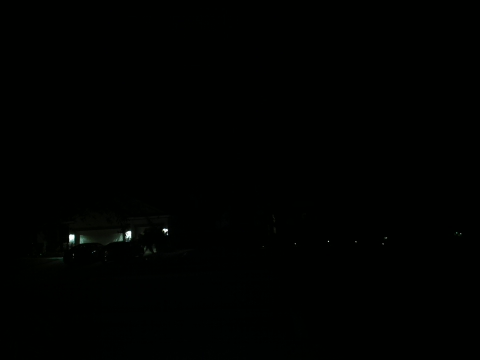
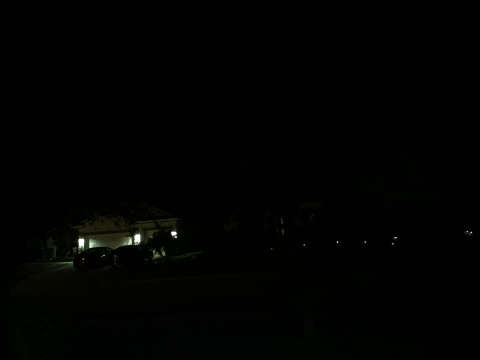
Commiting photos and text.

Changed region(s): [[0.0938, 0.6111, 0.375, 0.7639], [0.9688, 0.6417, 1.0, 0.6722]]

diff --git a/README.md b/README.md
@@ -1,2 +1,2 @@
 
-Detection Num: 0 | 2022-02-14, 20:12:13<br />Detection Num: 0 | 2022-02-14, 20:20:21<br />Detection Num: 0 | 2022-02-14, 20:33:47<br />Detection Num: 0 | 2022-02-14, 20:38:56<br />Detection Num: 0 | 2022-02-14, 20:41:20<br />Detection Num: 0 | 2022-02-14, 20:49:55<br />
+Detection Num: 0 | 2022-02-14, 20:12:13<br />Detection Num: 0 | 2022-02-14, 20:20:21<br />Detection Num: 0 | 2022-02-14, 20:33:47<br />Detection Num: 0 | 2022-02-14, 20:38:56<br />Detection Num: 0 | 2022-02-14, 20:41:20<br />Detection Num: 0 | 2022-02-14, 20:49:55<br />Detection Num: 0 | 2022-02-14, 21:20:34<br />
